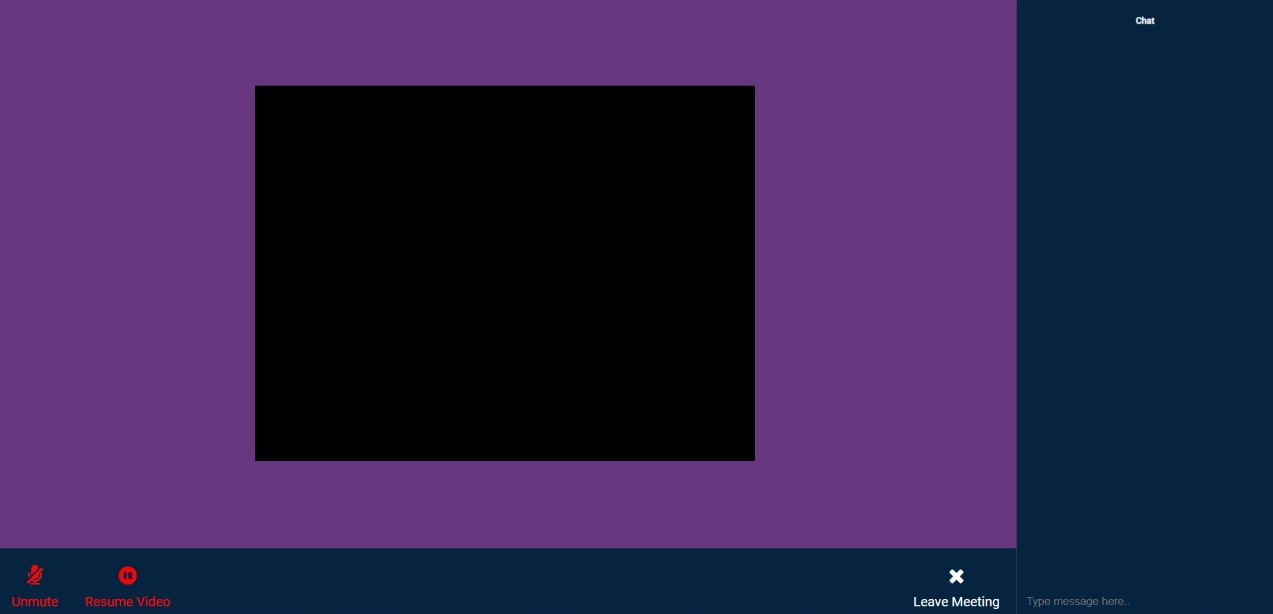
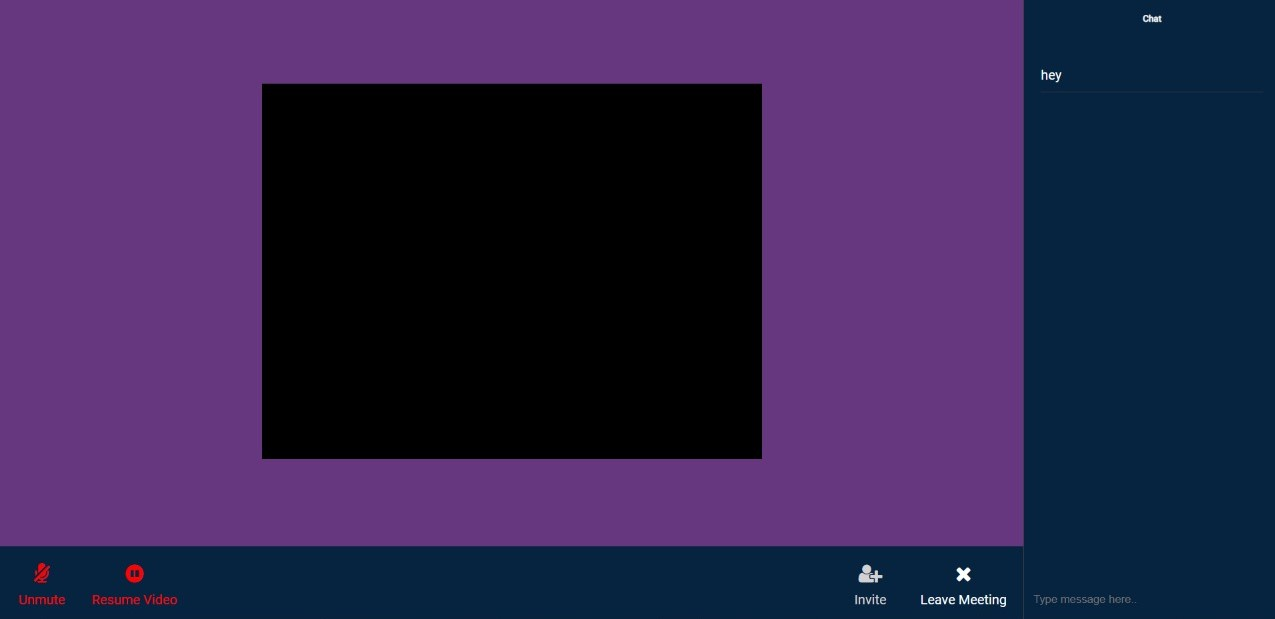
update README.md

Changed region(s): [[0.0, 0.0, 0.8885, 0.9902], [0.1838, 0.1238, 0.6127, 0.7736], [0.8885, 0.0, 0.9191, 0.0619]]

diff --git a/README.md b/README.md
@@ -27,8 +27,9 @@ This is the link to video demo:
 6. Text Chat
 7. Simple and intuitive UI
 8. Securely connect and collaborate
-9. Leave/Join Meeting 
-10. Multiple users can join the meeting.
+9. Invite anyone
+10. Leave/Join Meeting 
+11. Multiple users can join the meeting.
 
 ## Agile Methodology
 
